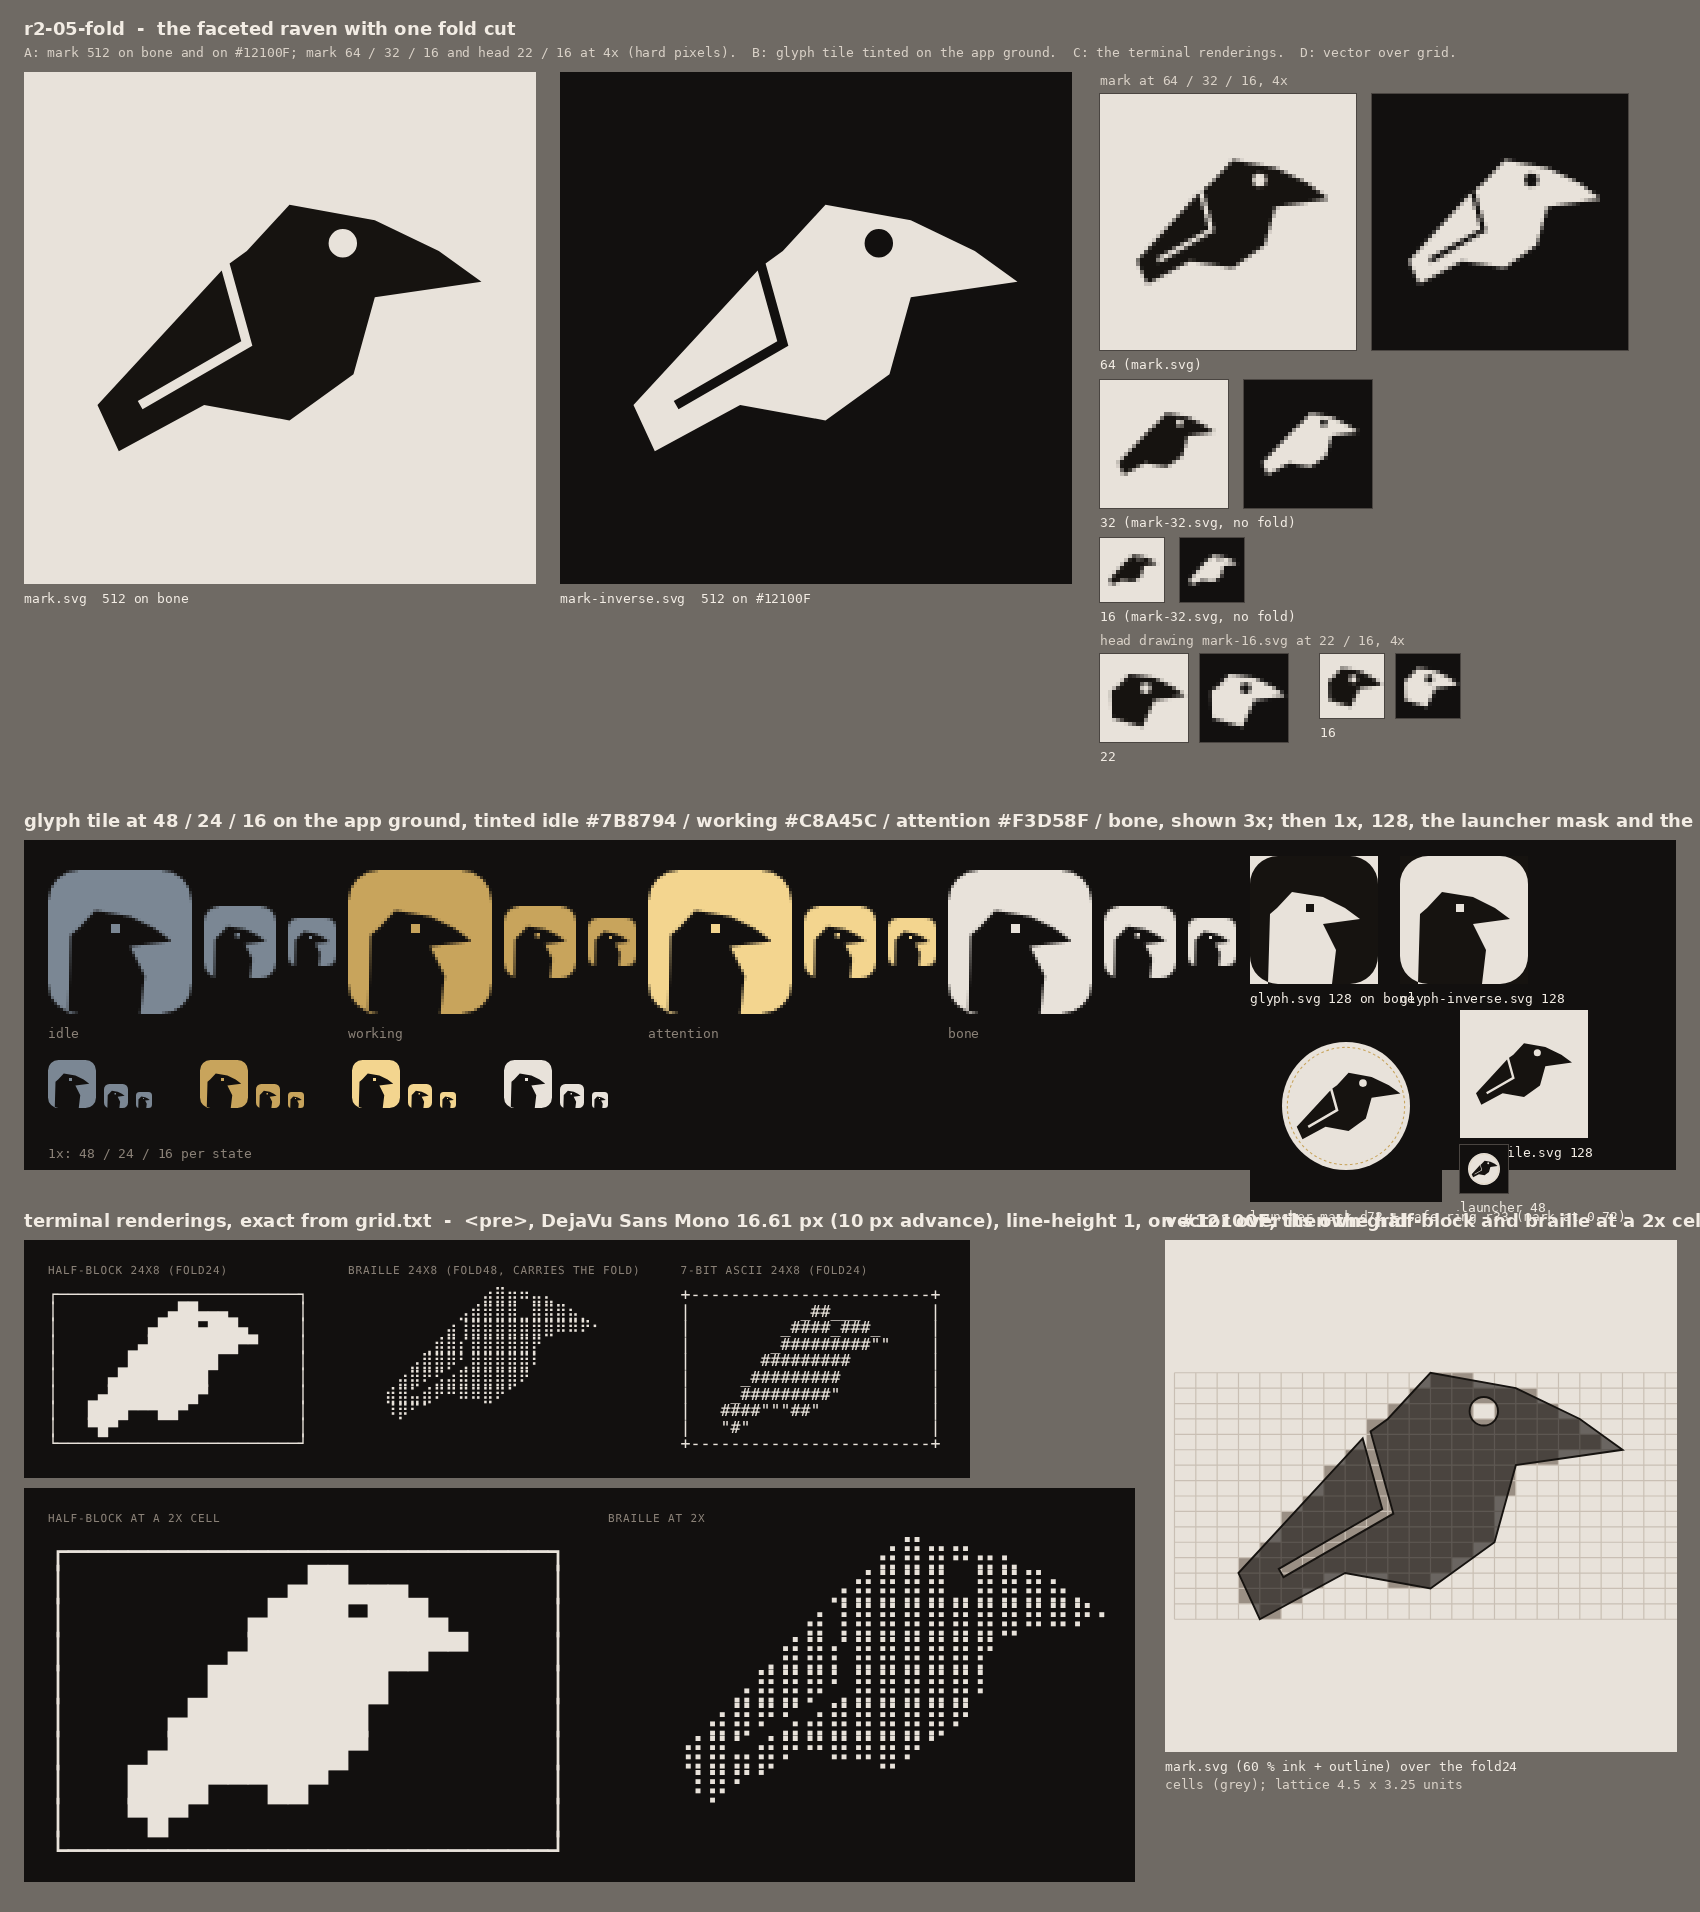
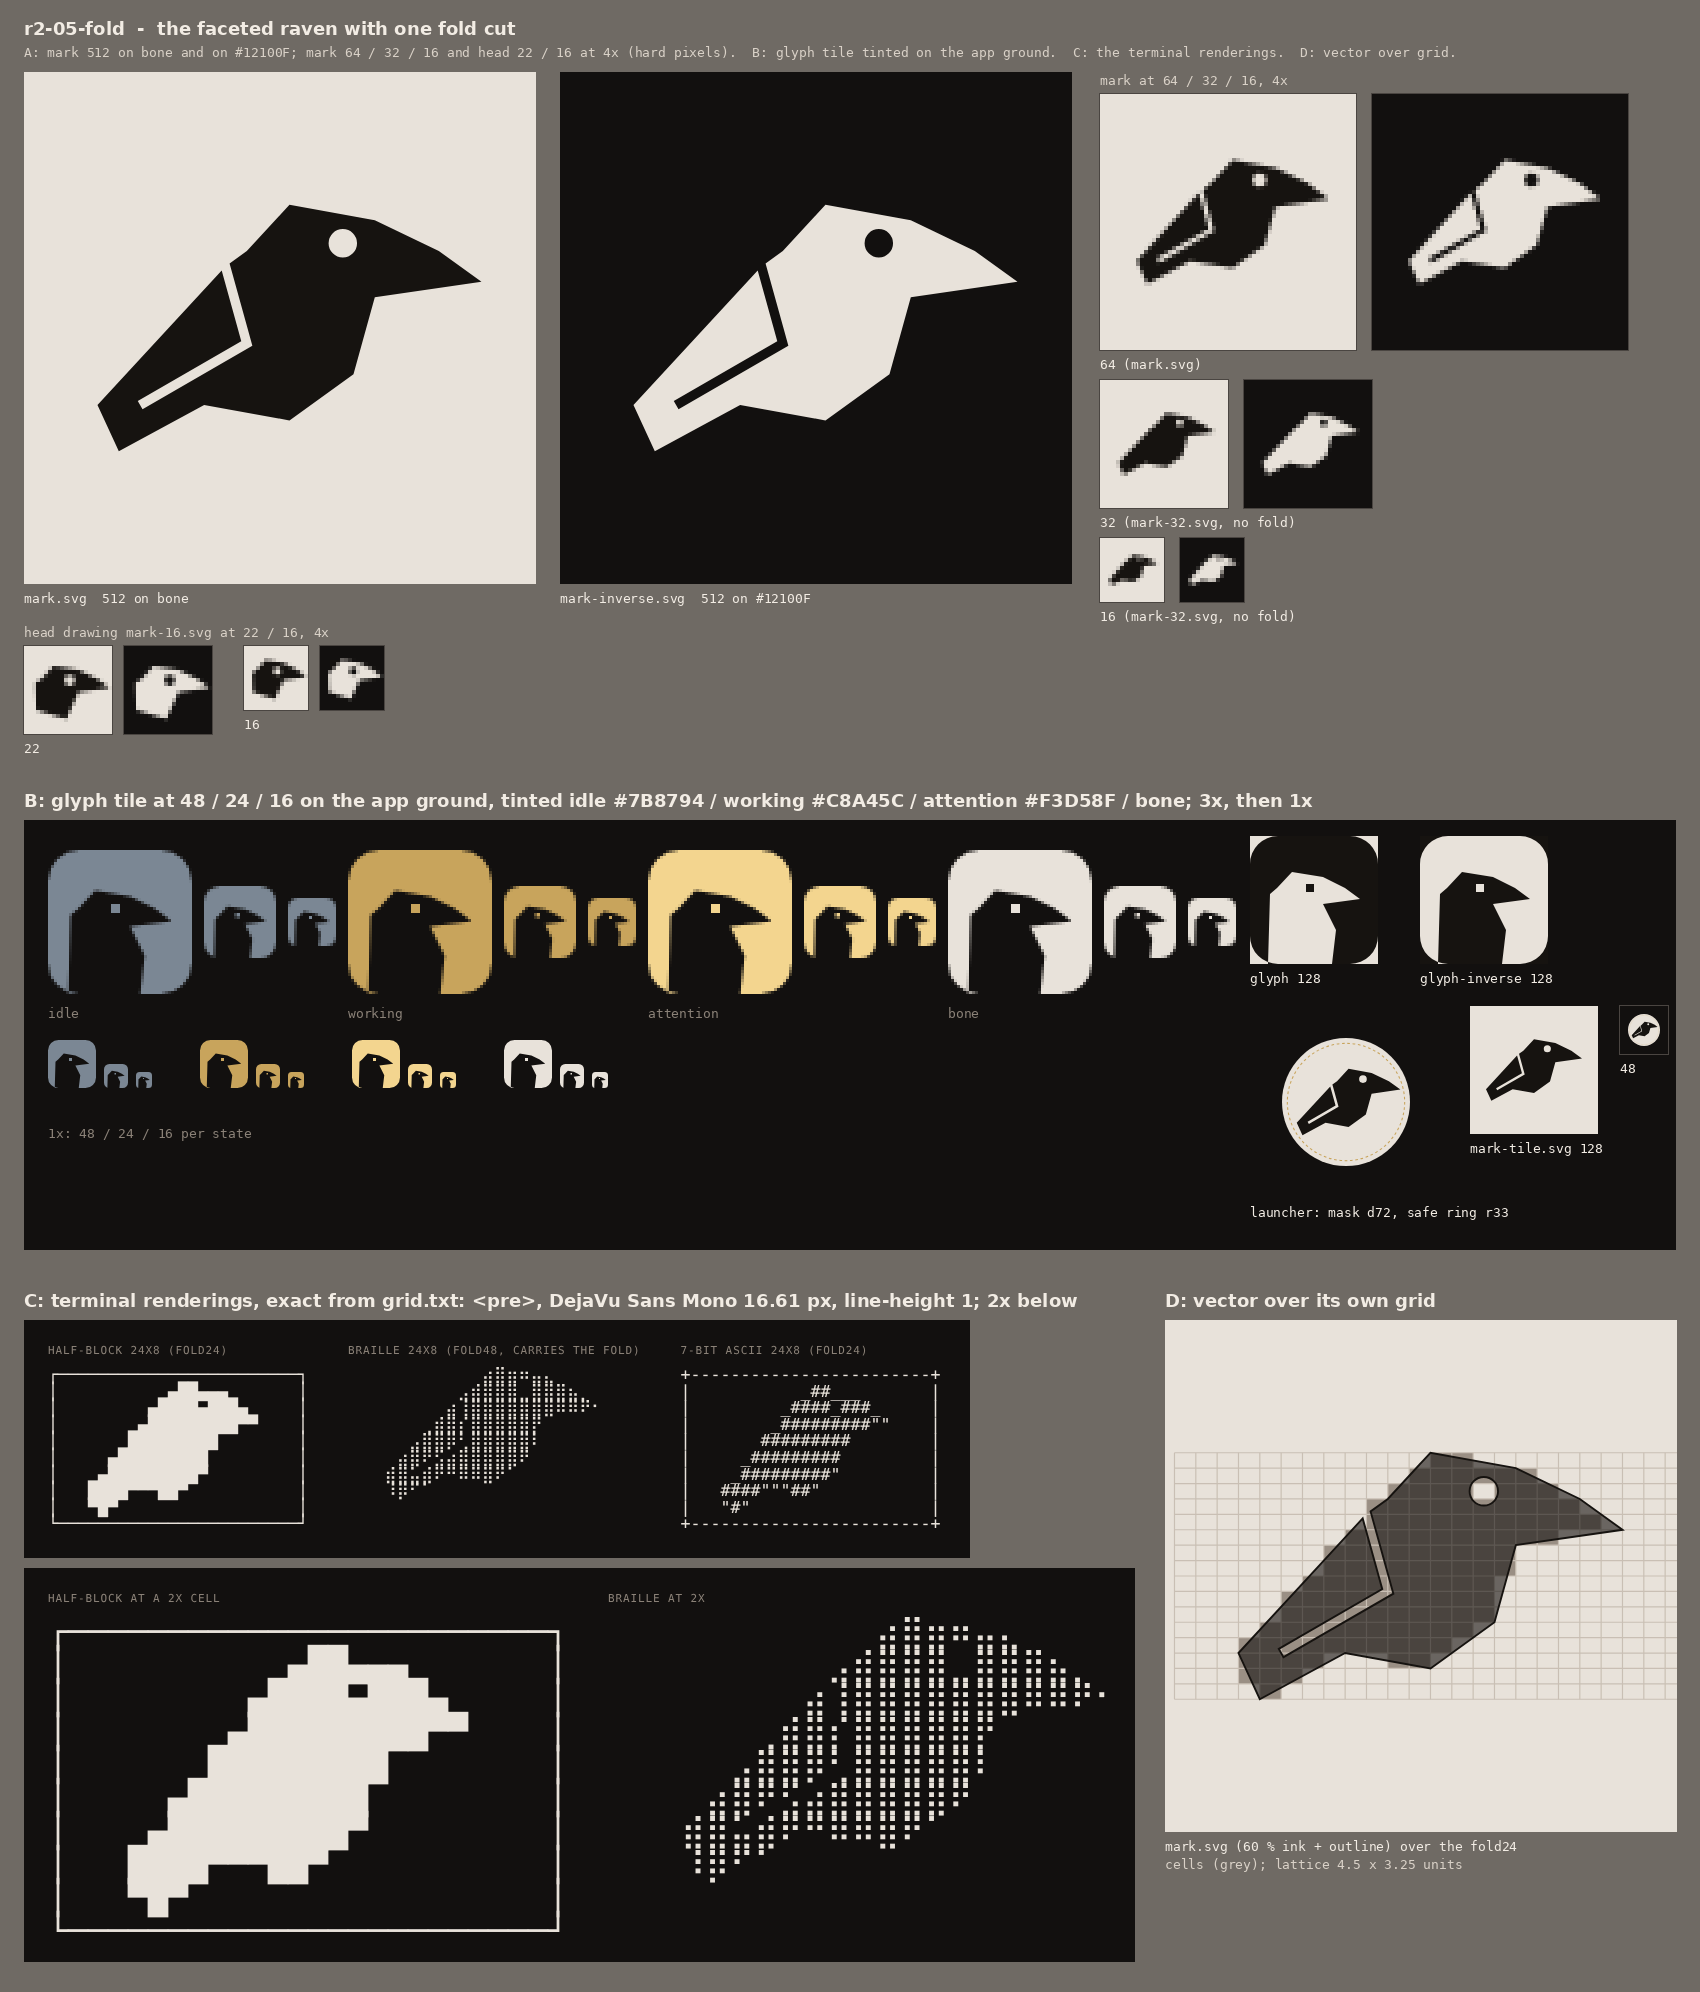
brand explorations round 2: r2-05-fold, the paper-fold raven as mark, glyph and exact terminal art
Claude-Session: https://claude.ai/code/session_01MsYQ558wxNsKznJYwKmX96

diff --git a/assets/brand/explorations/round2/r2-05-fold/build.py b/assets/brand/explorations/round2/r2-05-fold/build.py
@@ -367,6 +367,7 @@ def build_preview(g24):
         w, h = put(T(nm + '.png'), x, y, 4, label=lbl, frame='#4A4541')
         put(T(nm.replace('bone', 'dark') + '.png'), x + w + 16, y, 4, frame='#4A4541')
         y += h + 30
+    x, y = 24, yA + 512 + 40
     sub(x, y, 'head drawing mark-16.svg at 22 / 16, 4x')
     y += 22
     xx = x
@@ -376,9 +377,9 @@ def build_preview(g24):
         xx += 2 * w + 44
 
     # B ---------------------------------------------------------------- glyph
-    yB = 810
-    title(24, yB, 'glyph tile at 48 / 24 / 16 on the app ground, tinted idle #7B8794 / working #C8A45C / attention #F3D58F / bone, shown 3x; then 1x, 128, the launcher mask and the tile')
-    panel = Image.new('RGB', (W - 48, 330), BG)
+    yB = 790
+    title(24, yB, 'B: glyph tile at 48 / 24 / 16 on the app ground, tinted idle #7B8794 / working #C8A45C / attention #F3D58F / bone; 3x, then 1x')
+    panel = Image.new('RGB', (W - 48, 430), BG)
     sheet.paste(panel, (24, yB + 30))
     gx = 48
     for name in ('idle', 'working', 'attention', 'bone'):
@@ -397,15 +398,15 @@ def build_preview(g24):
         xx += 40
     d.text((48, yB + 335), '1x: 48 / 24 / 16 per state', fill='#8A8177', font=font)
     # right side of the panel: 128s on their own grounds, launcher, tile
-    put(T('g-ink-128.png'), 1250, yB + 46, label='glyph.svg 128 on bone')
-    put(T('g-inv-128.png'), 1400, yB + 46, label='glyph-inverse.svg 128')
-    put(T('launch-192.png'), 1250, yB + 200, label='launcher mask d72 + safe ring r33 (mark at 0.72)')
-    put(T('tile-128.png'), 1460, yB + 200, label='mark-tile.svg 128')
-    put(T('launch-48.png'), 1460, yB + 265 + 70, 1, label='launcher 48', frame='#4A4541')
+    put(T('g-ink-128.png'), 1250, yB + 46, label='glyph 128')
+    put(T('g-inv-128.png'), 1420, yB + 46, label='glyph-inverse 128')
+    put(T('launch-192.png'), 1250, yB + 216, label='launcher: mask d72, safe ring r33')
+    put(T('tile-128.png'), 1470, yB + 216, label='mark-tile.svg 128')
+    put(T('launch-48.png'), 1620, yB + 216, 1, label='48', frame='#4A4541')
 
     # C ---------------------------------------------------------------- text
-    yC = yB + 30 + 330 + 40
-    title(24, yC, 'terminal renderings, exact from grid.txt  -  <pre>, DejaVu Sans Mono 16.61 px (10 px advance), line-height 1, on #12100F; then the half-block and braille at a 2x cell')
+    yC = yB + 30 + 430 + 40
+    title(24, yC, 'C: terminal renderings, exact from grid.txt: <pre>, DejaVu Sans Mono 16.61 px, line-height 1; 2x below')
     pre = Image.open(T('pre-1100.png')).convert('RGB')
     bbox = Image.eval(pre.convert('L'), lambda v: 255 if v > 24 else 0).getbbox()
     pre = pre.crop((0, 0, min(pre.width, bbox[2] + 30), min(pre.height, bbox[3] + 30)))
@@ -418,7 +419,7 @@ def build_preview(g24):
     # D ---------------------------------------------------------------- overlay
     ox = 24 + max(pre.width, pre2.width) + 30
     yD = yC
-    title(ox, yD, 'vector over its own grid')
+    title(ox, yD, 'D: vector over its own grid')
     put(T('overlay-512.png'), ox, yD + 30, label='mark.svg (60 % ink + outline) over the fold24')
     sub(ox, yD + 30 + 512 + 24, 'cells (grey); lattice 4.5 x 3.25 units')
     h_total = max(yD + 30 + 512 + 60, yC + 40 + pre.height + pre2.height + 30)

diff --git a/assets/brand/explorations/round2/r2-05-fold/README.md b/assets/brand/explorations/round2/r2-05-fold/README.md
@@ -1,0 +1,121 @@
+# r2-05-fold — the folded raven
+
+**Look at:** `preview.png` (A: the mark at 512 on bone and on `#12100F`, at 64/32/16 and the
+head at 22/16, all small sizes shown 4x with hard pixels; B: the glyph at 48/24/16 tinted idle,
+working, attention and bone on the app ground, the 128s, the launcher mask, the tile; C: the three
+terminal renderings in a `<pre>`; D: the vector mark over its own grid).
+
+## The idea
+
+The round-1 faceted raven, re-cut so that every vertex sits on a terminal half-block lattice,
+plus **one interior cut**: a 2-unit hairline that opens at the shoulder, runs down the front of
+the folded wing to a corner at mid-body and back along its lower edge to the wing tip resting on
+the tail. The wing is a flap of paper hinged along the back; the gap is the light under its free
+edge. Nothing else changes: still monochrome, still one evenodd path, still a round eye hole, and
+the silhouette without the cut is exactly the round-1 pose snapped to the grid. The cut is dropped
+at 32 px and below (`mark-32.svg`, the head drawing and the glyph are solid) and it reappears in
+the braille rendering, where a one-dot gap is what a hairline is at 240 px.
+
+## The grid and how the facets snap
+
+**24 columns × 16 half-rows, cells 4.5 × 3.25 units of the 108 box:** column *i* is
+x = 4.5·*i*, half-row *j* is y = 17 + 3.25·*j*, so the sixteen half-rows cover the canon box
+height (y 17–69) exactly and the bird uses columns 3–21 (x 13.5–94.5). Every silhouette vertex is
+a lattice point P(*i*, *j*):
+
+| vertex | lattice | units | canon (round 1) |
+|---|---|---|---|
+| bill tip | P(21,5) | 94.5, 33.25 | 94.6, 34 |
+| upper bill | P(19,3) | 85.5, 26.75 | 84, 25.5 |
+| crown front | P(16,1) | 72, 20.25 | 70, 19.5 |
+| crown back | P(12,0) | 54, 17 | 55, 18.5 |
+| nape | P(10,3) | 45, 26.75 | 46, 26 |
+| shoulder | P(9,4) | 40.5, 30 | 42, 30.5 |
+| tail tip | P(3,13) | 13.5, 59.25 | 10.5, 60.5 |
+| tail bottom | P(4,16) | 18, 69 | 14.5, 67.5 |
+| under-tail | P(8,13) | 36, 59.25 | 36, 59 |
+| belly | P(12,14) | 54, 62.5 | 54, 62 |
+| breast | P(15,11) | 67.5, 52.75 | 68, 51 |
+| chin | P(16,6) | 72, 36.5 | 71.5, 36.5 |
+
+The back edge is 6 columns over 9 half-rows, so it passes through a lattice point every two
+columns and its stair-step is regular; the belly-to-breast edge is 3 over 3, the under-tail 4 over
+3, the lower bill 5 over 1. The eye is centred on lattice cell (14,2) — (65.25, 25.125), r 3.0 —
+so it rasterises as exactly one half-cell. The fold centreline is P(9,4) → P(10,9) → P(5,13),
+half-width 1; its mouth is spliced into the outline at the shoulder, so the mark is one 17-vertex
+ring plus the eye hole (`mark.svg`), and the solid 12-vertex ring plus the eye hole is
+`mark-32.svg`.
+
+`grid.txt` holds two rasters of the solid silhouette, a cell being ink when at least half of it
+is inside the path: `fold24` (24 × 16, the half-block and 7-bit source) and `fold48` (48 × 32, the
+same path on the 2× lattice, the braille source, with the fold carved as a one-fine-cell gap).
+Both give 24 text columns × 8 text rows, so the three renderings have the same footprint. They are
+read straight off the grids with `../../marks-b/mark-04-pixel/grid2text.py`; the half-block and
+7-bit files are framed because block art pads with spaces (the documented exception in
+`../../ascii/README.md`), the braille pads with U+2800 and needs no frame. All three pass
+`../../tools/asciicheck.py` and the 7-bit file is pure ASCII. (The brief's `../tools/` path does
+not exist under `round2/`; the tools are one level up.)
+
+## Files
+
+| file | what |
+|---|---|
+| `mark.svg` | the mark: ink `#161310`, one evenodd path (ring + eye hole), 108 viewBox, `translate(2,11)`, box x 13.5–94.5, y 17–69 |
+| `mark-inverse.svg` | the same path in bone `#E8E2DA` |
+| `mark-tile.svg` | app-icon master: ink mark on the bone tile (`translate(0,11)` so it is centred; 12.5 % inset left/right) |
+| `mark-32.svg` | the silhouette without the fold: 32 px and below, and the source of `grid.txt` (an extra file; the fold needs a second master) |
+| `mark-16.svg` | the head drawing for 16–22 px: head, bill and neck in 9 edges with the mark's crown and bill facets, eye hole r 6.5, box x 14–105 / y 24–90 of a plain 108 viewBox |
+| `glyph.svg`, `glyph-inverse.svg` | the glyph tile: rounded square (64 box, rx 14) minus this head and breast in 10 straight edges, plus a 4 × 4 eye cell at x 28–32 / y 24–28 (whole pixels at 16/32/64); one evenodd path |
+| `grid.txt` | `fold24` and `fold48`, `#`/`.` rows, with the generation commands in the header |
+| `ascii-halfblock.txt` | 24 × 8 `▀▄█`, framed (26 × 10). Unicode; line-height-1 terminals |
+| `ascii-braille.txt` | 24 × 8 braille, carries the fold. Unicode; README, docs, tmux |
+| `ascii-7bit.txt` | 24 × 8 `#"_`, framed with `+-\|`. Pure ASCII; the CLI client scripts |
+| `preview.png` | the contact sheet |
+| `build.py` | regenerates everything above from the lattice and the vertex lists (`--preview` for the sheet) |
+
+## What the sheet shows
+
+- **A.** At 512 the fold reads as a wing flap on both grounds; at 64 it is a 1.2 px grey chevron,
+  still legible; the 32 and 16 renders are the solid master and read as a bird at 32 and a smudge
+  with a bill at 16, which the head drawing covers (22 and 16, both grounds).
+- **B.** The glyph is a tile with a bird in it at 16 in all four tints, the eye cell survives at 24
+  and up, and the inverse (dark raven through a bone tile) is the best single image again. The
+  launcher mask keeps the whole mark inside the safe ring at the canon's 0.72 scale.
+- **C.** The three renderings share one footprint; the half-block is the mark's own cells, the
+  braille has the fold and the eye hole, the 7-bit is the half-block with `#"_`.
+- **D.** The vector over its grid: every vertex on a lattice line, the diagonals stair-stepping
+  across it, the eye one cell.
+
+## Strengths
+
+- One idea, legible at a glance: a paper-cut raven with a folded wing. It is the only variant with
+  an interior, so it is the most distinctive of the five at hero size without adding a colour.
+- The cut is additive: strip it and you have the control variant's bird. Two masters, one family.
+- Terminal exactness is structural: the half-block is the silhouette's own cells, the braille is
+  the same path at 2× and carries the fold, the 7-bit is CLI-safe, and all three are 24 × 8.
+- Regular stair-steps (the back is 2:3, the breast 1:1) because the slopes were chosen on the
+  lattice, not snapped after the fact.
+- The eye is a single half-cell in the terminal and a crisp hole at 64.
+
+## Weaknesses (honest)
+
+- **Cell aspect.** The lattice cell is 4.5 × 3.25 units but a terminal half-cell is roughly 10 × 9
+  px, so the terminal bird is about 1.3× taller than the vector (1.15× in the `<pre>` at
+  line-height 1). The 24 × 16 grid is what all five variants share; a 24 × 12 square-cell grid
+  would fix the proportion at the cost of resolution. Stated, not solved.
+- **The fold needs a second master.** Below 64 it is a grey line and below 32 it is gone, so the
+  tray, favicon-32 and the half-block carry a mark without the variant's idea. Only the hero, the
+  README and the braille show what makes this variant this variant.
+- At 24 columns the bill tip vertex sits on a cell corner, so the half-block bill is one column
+  short of the vector's, and the tail is three rows of stair.
+- The brow above the eye is 3.1 units (the canon's is 4.2) because the eye must centre on a cell;
+  at 64 it is a 1.8 px line.
+- The braille fold is one dot wide and depends on the terminal's braille font; a heavy fallback
+  can close it, a light one can make it read as noise (see `../../ascii/README.md` on braille
+  coverage).
+- The bent cut is one more thing to read than the control; at 512 some will see a chevron badge
+  before a wing, and it leans further into the paper-craft trope than the plain facets do.
+
+**Weakest form:** the glyph tile. It cannot carry the fold, so it is the generic negative-space
+head of mark-05 with this variant's facets, and at 16 it is "a tile with a bird" exactly as
+mark-05 was, no more. The half-block is a close second for the aspect reason above.
